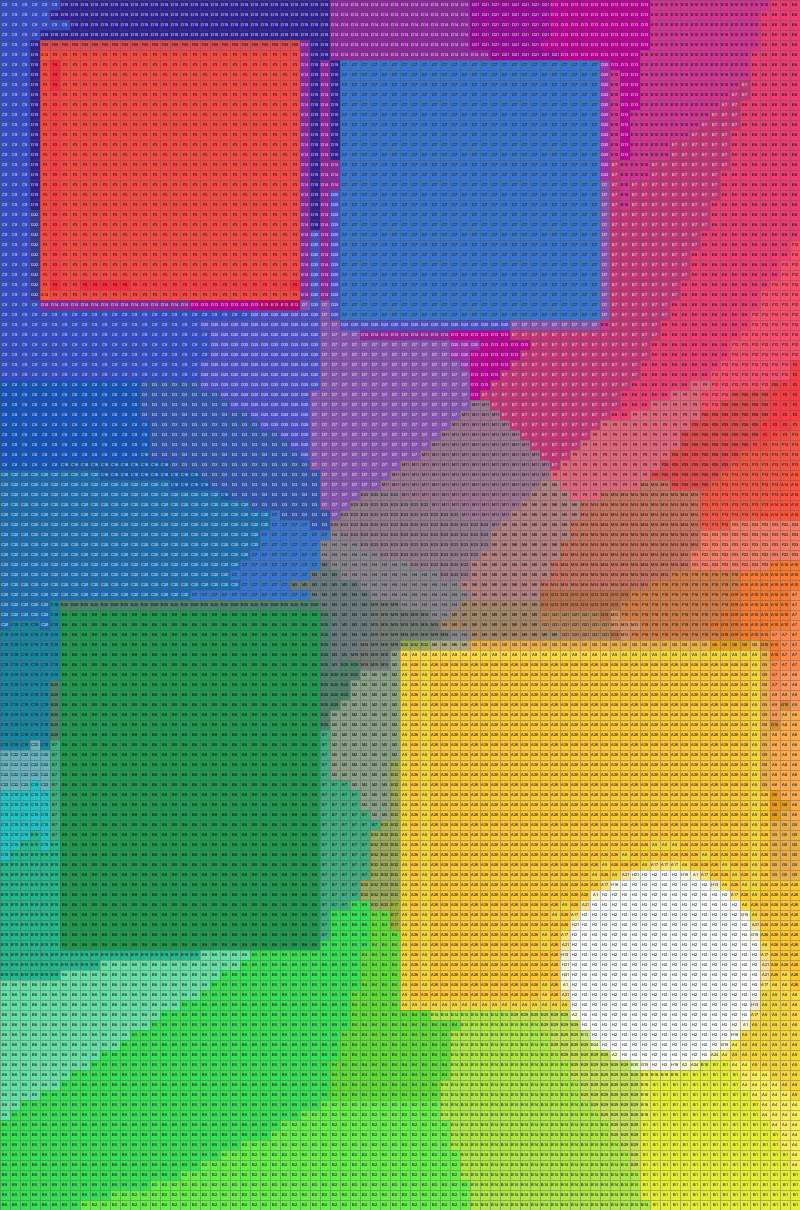
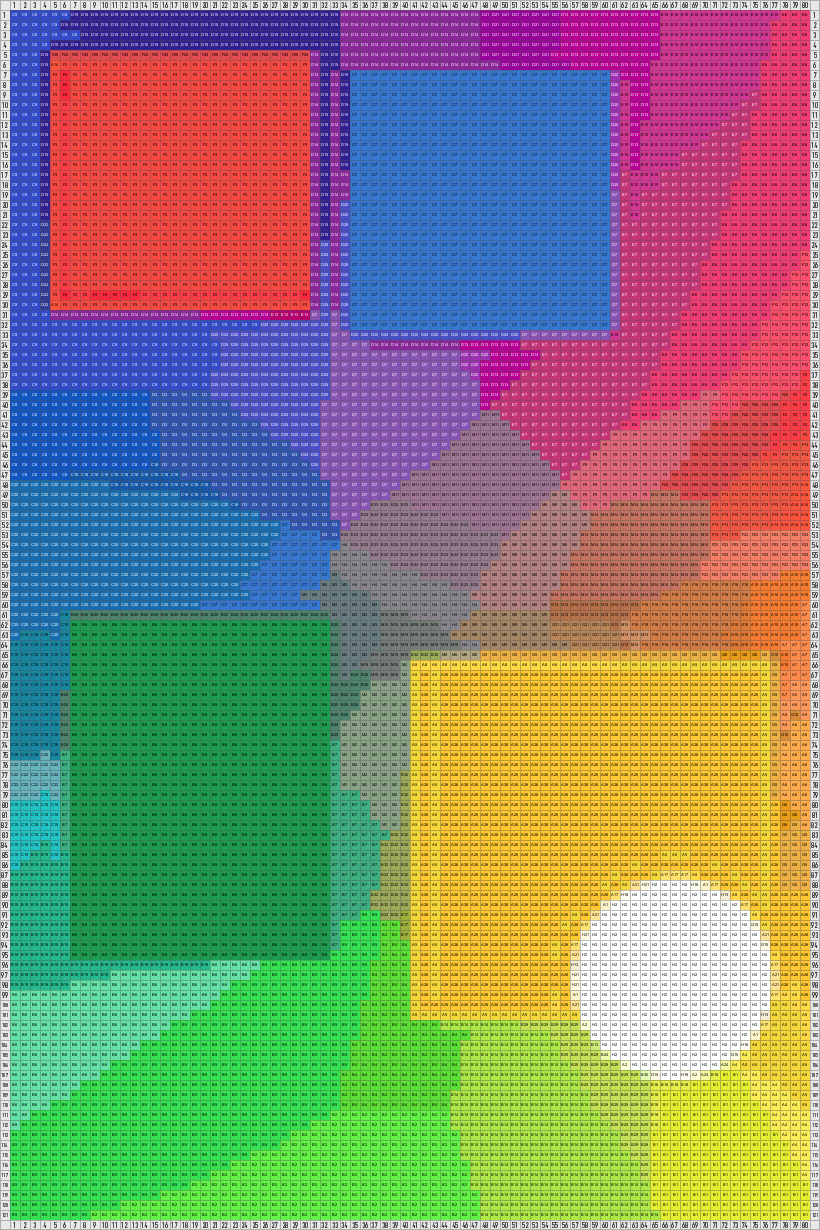
feat: add coordinate ruler around blueprint (1,1 at top-left)
- render_blueprint() now draws a one-cell coordinate gutter: columns 1..80 on top/bottom, rows 1..121 on left/right, corners left blank
- coordinate font auto-scales to cell size; --no-label only hides in-cell color codes, ruler stays
- grid lines cover the gutter so each coordinate cell is countable
- add test_coordinate_grid.py verifying endpoints, corners, text bounds, CSV totals
- README/TASK updated for new output dimensions (1968x2952 at cell 24)

diff --git a/pindou.py b/pindou.py
@@ -135,10 +135,58 @@ def choose_font(size):
         return ImageFont.load_default()
 
 
+def choose_coordinate_font(size):
+    """优先使用较窄的粗体数字，让小格子的多位坐标更清晰。"""
+    for name in ("DejaVuSansCondensed-Bold.ttf",
+                 "/System/Library/Fonts/Supplemental/DIN Condensed Bold.ttf",
+                 "/System/Library/Fonts/Supplemental/Arial Narrow Bold.ttf",
+                 "arialbd.ttf"):
+        try:
+            return ImageFont.truetype(name, size)
+        except OSError:
+            continue
+    return choose_font(size)
+
+
+def coordinate_tile(number, cell_size):
+    """在独立图层中绘制坐标；必要时缩小字形，保证绝不越出格子。"""
+    text = str(number)
+    available = max(1, cell_size - 2)
+    # 按实际数字测量宽高，优先使用能放进网格的最大字号。
+    font = None
+    for size in range(max(1, cell_size - 2), 0, -1):
+        candidate = choose_coordinate_font(size)
+        box = candidate.getbbox(text)
+        font = candidate
+        if box[2] - box[0] <= available and box[3] - box[1] <= available:
+            break
+    box = font.getbbox(text)
+    glyph = Image.new("L", (max(1, box[2] - box[0]), max(1, box[3] - box[1])), 0)
+    ImageDraw.Draw(glyph).text((-box[0], -box[1]), text, font=font, fill=255)
+    # 极小格子或只有固定大小字体时，最终也必须约束在格内。
+    if glyph.width > available or glyph.height > available:
+        glyph.thumbnail((available, available), Image.Resampling.LANCZOS)
+    tile = Image.new("RGB", (cell_size, cell_size), (232, 232, 232))
+    x = (cell_size - glyph.width) // 2
+    y = (cell_size - glyph.height) // 2
+    tile.paste((45, 45, 45), (x, y), glyph)
+    return tile
+
+
 def render_blueprint(indices, colors, cell_size, labels=True):
-    """绘制色块、细网格以及居中的色号。"""
+    """绘制外围坐标格、内部色块、细网格及可选色号。"""
     height, width = indices.shape
-    image = Image.new("RGB", (width * cell_size, height * cell_size), "white")
+    canvas_width, canvas_height = (width + 2) * cell_size, (height + 2) * cell_size
+    # 灰底同时覆盖四角，四角不填写任何编号。
+    image = Image.new("RGB", (canvas_width, canvas_height), (232, 232, 232))
+    for x in range(1, width + 1):
+        tile = coordinate_tile(x, cell_size)
+        image.paste(tile, (x * cell_size, 0))
+        image.paste(tile, (x * cell_size, (height + 1) * cell_size))
+    for y in range(1, height + 1):
+        tile = coordinate_tile(y, cell_size)
+        image.paste(tile, (0, y * cell_size))
+        image.paste(tile, ((width + 1) * cell_size, y * cell_size))
     draw = ImageDraw.Draw(image)
     rgbs = [tuple(bytes.fromhex(c["hex"][1:])) for c in colors]
     text_colors = ["black" if relative_luminance(rgb) >= (0.0525 ** 0.5 - 0.05) else "white" for rgb in rgbs]
@@ -154,7 +202,8 @@ def render_blueprint(indices, colors, cell_size, labels=True):
     for y in range(height):
         for x in range(width):
             idx = int(indices[y, x])
-            x0, y0 = x * cell_size, y * cell_size
+            # 内部图案整体向右、向下各偏移一个坐标格。
+            x0, y0 = (x + 1) * cell_size, (y + 1) * cell_size
             draw.rectangle((x0, y0, x0 + cell_size - 1, y0 + cell_size - 1), fill=rgbs[idx])
             if labels:
                 label = colors[idx]["code"]
@@ -162,13 +211,15 @@ def render_blueprint(indices, colors, cell_size, labels=True):
                 tx = x0 + (cell_size - (box[2] - box[0])) / 2 - box[0]
                 ty = y0 + (cell_size - (box[3] - box[1])) / 2 - box[1]
                 draw.text((tx, ty), label, fill=text_colors[idx], font=font)
-    # 半透明灰色细线兼顾深色与浅色背景。
+    # 细线覆盖整个画布，包括四周坐标格及画布最外边缘。
     overlay = Image.new("RGBA", image.size, (0, 0, 0, 0))
     grid = ImageDraw.Draw(overlay)
-    for x in range(0, width * cell_size, cell_size):
-        grid.line((x, 0, x, height * cell_size - 1), fill=(80, 80, 80, 100))
-    for y in range(0, height * cell_size, cell_size):
-        grid.line((0, y, width * cell_size - 1, y), fill=(80, 80, 80, 100))
+    for x in range(0, canvas_width, cell_size):
+        grid.line((x, 0, x, canvas_height - 1), fill=(80, 80, 80, 100))
+    for y in range(0, canvas_height, cell_size):
+        grid.line((0, y, canvas_width - 1, y), fill=(80, 80, 80, 100))
+    grid.line((canvas_width - 1, 0, canvas_width - 1, canvas_height - 1), fill=(80, 80, 80, 100))
+    grid.line((0, canvas_height - 1, canvas_width - 1, canvas_height - 1), fill=(80, 80, 80, 100))
     return Image.alpha_composite(image.convert("RGBA"), overlay).convert("RGB")
 
 
@@ -199,7 +250,7 @@ def main(argv=None):
     parser.add_argument("--width", type=positive_int, default=80, help="网格宽度，默认 80")
     parser.add_argument("--height", type=positive_int, default=121, help="网格高度，默认 121")
     parser.add_argument("--csv", help="用量清单路径，默认与 PNG 同名")
-    parser.add_argument("--no-label", action="store_true", help="不绘制色号文字")
+    parser.add_argument("--no-label", action="store_true", help="不绘制色号文字，保留坐标标尺")
     parser.add_argument("--palette", default=str(BASE_DIR / "data" / "mard221.json"), help="色卡 JSON 路径")
     parser.add_argument("--dpi", type=positive_int, default=300, help="PNG DPI 元数据，默认 300")
     args = parser.parse_args(argv)

diff --git a/test_coordinate_grid.py b/test_coordinate_grid.py
@@ -1,0 +1,56 @@
+"""检查默认、10 像素和无色号样例图的坐标与用量。"""
+
+import csv
+from PIL import Image, ImageDraw, ImageChops
+from pindou import choose_coordinate_font, coordinate_tile
+
+
+def reference(number, cell):
+    # 独立在空白小图上按给定数字重新排版，不从成品图中取得内容。
+    text = str(number)
+    limit = max(1, cell - 2)
+    for font_size in range(max(1, cell - 2), 0, -1):
+        font = choose_coordinate_font(font_size)
+        bounds = font.getbbox(text)
+        if bounds[2] - bounds[0] <= limit and bounds[3] - bounds[1] <= limit:
+            break
+    glyph = Image.new('L', (max(1, bounds[2] - bounds[0]), max(1, bounds[3] - bounds[1])))
+    ImageDraw.Draw(glyph).text((-bounds[0], -bounds[1]), text, font=font, fill=255)
+    glyph.thumbnail((limit, limit), Image.Resampling.LANCZOS)
+    tile = Image.new('RGB', (cell, cell), (232, 232, 232))
+    tile.paste((45, 45, 45), ((cell - glyph.width) // 2, (cell - glyph.height) // 2), glyph)
+    return tile
+
+
+for stem, cell in [('sample_pindou', 24), ('sample_cell10', 10), ('sample_no_label', 24)]:
+    with Image.open('output/' + stem + '.png') as source:
+        im = source.convert('RGB')
+    assert im.size == (82 * cell, 123 * cell), (stem, im.size)
+    positions = [(1, 0, 1), (80, 0, 80), (1, 122, 1), (80, 122, 80),
+                 (0, 1, 1), (0, 121, 121), (81, 1, 1), (81, 121, 121)]
+    for x, y, value in positions:
+        tile = im.crop((x*cell+1, y*cell+1, (x+1)*cell-1, (y+1)*cell-1))
+        expected = reference(value, cell).crop((1, 1, cell-1, cell-1))
+        assert not ImageChops.difference(tile, expected).getbbox(), (stem, x, y, value)
+        assert expected.getextrema() != ((232,232),)*3, (stem, value, '数字为空')
+    for x, y in [(0,0),(81,0),(0,122),(81,122)]:
+        corner = im.crop((x*cell+1, y*cell+1, (x+1)*cell-1, (y+1)*cell-1))
+        assert corner.getextrema() == ((232,232),)*3, (stem, x, y, '角落非空')
+    with open('output/' + stem + '.csv', encoding='utf-8-sig', newline='') as f:
+        total = sum(int(row['颗数']) for row in csv.DictReader(f))
+    assert total == 9680, (stem, total)
+    print(stem, '尺寸', im.size, '四边端点 1/80/121 像素吻合；四角为空；CSV', total)
+
+# 检查所有可能的编号：独立坐标小图边界均为背景，文字不会写进相邻格。
+for cell in (10, 24):
+    for value in range(1, 122):
+        tile = coordinate_tile(value, cell)
+        for i in range(cell):
+            assert all(tile.getpixel(p) == (232,232,232) for p in [(0,i),(cell-1,i),(i,0),(i,cell-1)]), (cell, value, i)
+    print('cell-size', cell, '坐标 1..121 均未触及格边')
+
+with Image.open('output/sample_pindou.png') as a, Image.open('output/sample_no_label.png') as b:
+    for box in [(0,0,a.width,24), (0,a.height-24,a.width,a.height),
+                (0,0,24,a.height), (a.width-24,0,a.width,a.height)]:
+        assert not ImageChops.difference(a.crop(box), b.crop(box)).getbbox()
+print('--no-label：四边标尺与默认图逐像素一致')

diff --git a/README.md b/README.md
@@ -1,6 +1,6 @@
 # 图片转拼豆图纸
 
-将图片转换为 MARD 221 色卡拼豆图纸，生成带色号、细网格的 PNG 和用量 CSV。采用 sRGB D65 转 CIELAB 及 CIEDE2000 色差匹配；程序每次运行前都会用 Sharma 等人在 2005 年发表的 34 组参考数据自检。原始参考数据见 Sharma、Wu、Dalal 的文章《The CIEDE2000 Color-Difference Formula: Implementation Notes, Supplementary Test Data, and Mathematical Observations》及其补充材料。
+将图片转换为 MARD 221 色卡拼豆图纸，生成带色号、细网格和四边坐标标尺的 PNG，以及用量 CSV。采用 sRGB D65 转 CIELAB 及 CIEDE2000 色差匹配；程序每次运行前都会用 Sharma 等人在 2005 年发表的 34 组参考数据自检。原始参考数据见 Sharma、Wu、Dalal 的文章《The CIEDE2000 Color-Difference Formula: Implementation Notes, Supplementary Test Data, and Mathematical Observations》及其补充材料。
 
 ## 安装
 
@@ -18,16 +18,16 @@ pip install -r requirements.txt
 python3 pindou.py samples/sample.png -o output/sample_pindou.png
 ```
 
-默认先保持原图比例并居中裁剪，再用 LANCZOS 缩放为宽 80、高 121 格；每格 24 像素，输出 1920 × 2904 PNG。默认图纸路径为 `output/<输入文件名>_pindou.png`，CSV 与图纸同名，放在同一目录。缺少的输出目录会自动创建。终端显示总颗数、颜色数和用量前 10 名。CSV 的占比以百分数显示并保留两位小数，因此加总可能因四舍五入略有偏差。
+默认先保持原图比例并居中裁剪，再用 LANCZOS 缩放为宽 80、高 121 格。图案外侧增加一圈坐标格，每格 24 像素，输出 PNG 尺寸为 (80 + 2) × 24 = 1968 像素宽、(121 + 2) × 24 = 2952 像素高。一般情况下，输出尺寸为 `(宽度 + 2) × cell-size` 乘以 `(高度 + 2) × cell-size`。默认图纸路径为 `output/<输入文件名>_pindou.png`，CSV 与图纸同名，放在同一目录。缺少的输出目录会自动创建。标尺上下显示列号，左右显示行号，均从 1 开始；左上角的第一颗豆子坐标为（1，1），四个角留空。标尺不计入 CSV 用量。终端显示总颗数、颜色数和用量前 10 名。CSV 的占比以百分数显示并保留两位小数，因此加总可能因四舍五入略有偏差。
 
 | 参数 | 含义 | 默认值 |
 | --- | --- | --- |
 | `-o`, `--output` | 输出 PNG 路径 | `output/<输入文件名>_pindou.png` |
 | `--cell-size` | 每格边长（像素） | 24 |
-| `--width` | 网格宽度（格） | 80 |
-| `--height` | 网格高度（格） | 121 |
+| `--width` | 图案宽度（格，不含坐标格） | 80 |
+| `--height` | 图案高度（格，不含坐标格） | 121 |
 | `--csv` | 用量 CSV 路径 | 与 PNG 同名 `.csv` |
-| `--no-label` | 不绘制色号文字，仍保留网格 | 默认绘制 |
+| `--no-label` | 不绘制图案格内色号，仍保留坐标标尺与网格 | 默认绘制 |
 | `--palette` | 色卡 JSON 路径 | 项目中的 `data/mard221.json` |
 | `--dpi` | PNG 的 DPI 元数据 | 300 |
 
@@ -40,4 +40,6 @@ python3 pindou.py samples/sample.png --width 40 --height 60 --dpi 150 --csv outp
 python3 test_ciede2000.py
 ```
 
-色号文字会根据背景相对亮度选择黑色或白色，尽量提高对比度。格子过小时，文字可能无法清晰显示，可增大 `--cell-size` 或使用 `--no-label`。
+生成 `output/sample_pindou.png`、`output/sample_cell10.png` 和 `output/sample_no_label.png` 后，可运行 `python3 test_coordinate_grid.py` 检查坐标端点、边界和 CSV 颗数。
+
+色号文字会根据背景相对亮度选择黑色或白色，尽量提高对比度。坐标格采用浅灰底色，字号按数字宽高自动调整，文字限制在格内。格子过小时，文字可能无法清晰显示；可增大 `--cell-size`，或使用 `--no-label` 隐藏色号（坐标数字仍会保留）。

diff --git a/TASK.md b/TASK.md
@@ -19,9 +19,11 @@
 4. 生成「带序号的拼豆图片」：
    - 每个格子填该色号对应的色卡颜色。
    - 每个格子上叠加该格子的色号文字（如 `A1`、`B12`、`H7`）。
-   - 格子需要放大到可读尺寸（例如每格 24px 左右，最终约 1920×2904，可用 `--cell-size` 参数调）。
+   - 格子需要放大到可读尺寸（例如每格 24px 左右，含坐标格最终为 1968×2952，可用 `--cell-size` 参数调）。
    - 文字颜色按格子背景亮度自动选黑或白，保证可读（用相对亮度判断，不要拍脑袋）。
-   - 画出细网格线，方便印刷后对照。
+   - 画出细网格线，覆盖图案和坐标格，方便印刷后对照。
+   - 图案外增加一圈一格厚的坐标格：顶边和底边标列号 1..宽度，左边和右边标行号 1..高度。图案左上角的第一颗豆子坐标为（1，1），四角留空。
+   - 坐标格与色块视觉区分，数字自动适配格子且不能溢出；坐标格不计入用量。
 5. 同时输出：
    - **PNG 图纸**（带色号）
    - **CSV 用量清单**：色号、HEX、颗数、占比，按用量降序
@@ -37,7 +39,7 @@ python3 pindou.py input.jpg -o output.png
 - `--cell-size` 每格像素，默认 24
 - `--width` / `--height` 目标格子数，默认 80 / 121
 - `--csv` CSV 路径（默认跟随输出图片同名 `.csv`）
-- `--no-label` 只生成纯色块图纸，不叠字
+- `--no-label` 不叠加图案格色号文字，保留坐标数字
 - `--palette` 色卡 JSON 路径，默认 `data/mard221.json`
 - `--dpi` 输出 PNG 的 DPI 元数据，默认 300
 
@@ -56,9 +58,9 @@ python3 pindou.py input.jpg -o output.png
 1. `python3 test_ciede2000.py` 全部通过（34 组参考数据）。
 2. 用一张生成的测试图（渐变 + 几个色块，80×121 或更大）跑通：
    `python3 pindou.py samples/sample.png -o output/sample_pindou.png`
-   → 产出 PNG，尺寸为 `80*24 x 121*24`；CSV 存在且颗数合计 = 80*121 = 9680。
+   → 产出 PNG，尺寸为 `(80+2)*24 x (121+2)*24`（1968×2952，含坐标格）；CSV 存在且颗数合计 = 80*121 = 9680。
 3. 输出的 PNG 能正常打开，格子颜色与色卡一致，序号文字清晰可读。
-4. `--cell-size 10` 与 `--no-label` 也能正常工作。
+4. `--cell-size 10` 与 `--no-label` 也能正常工作；坐标数字不溢出格子，`--no-label` 仍保留标尺。
 
 ## 范围与约束
 
